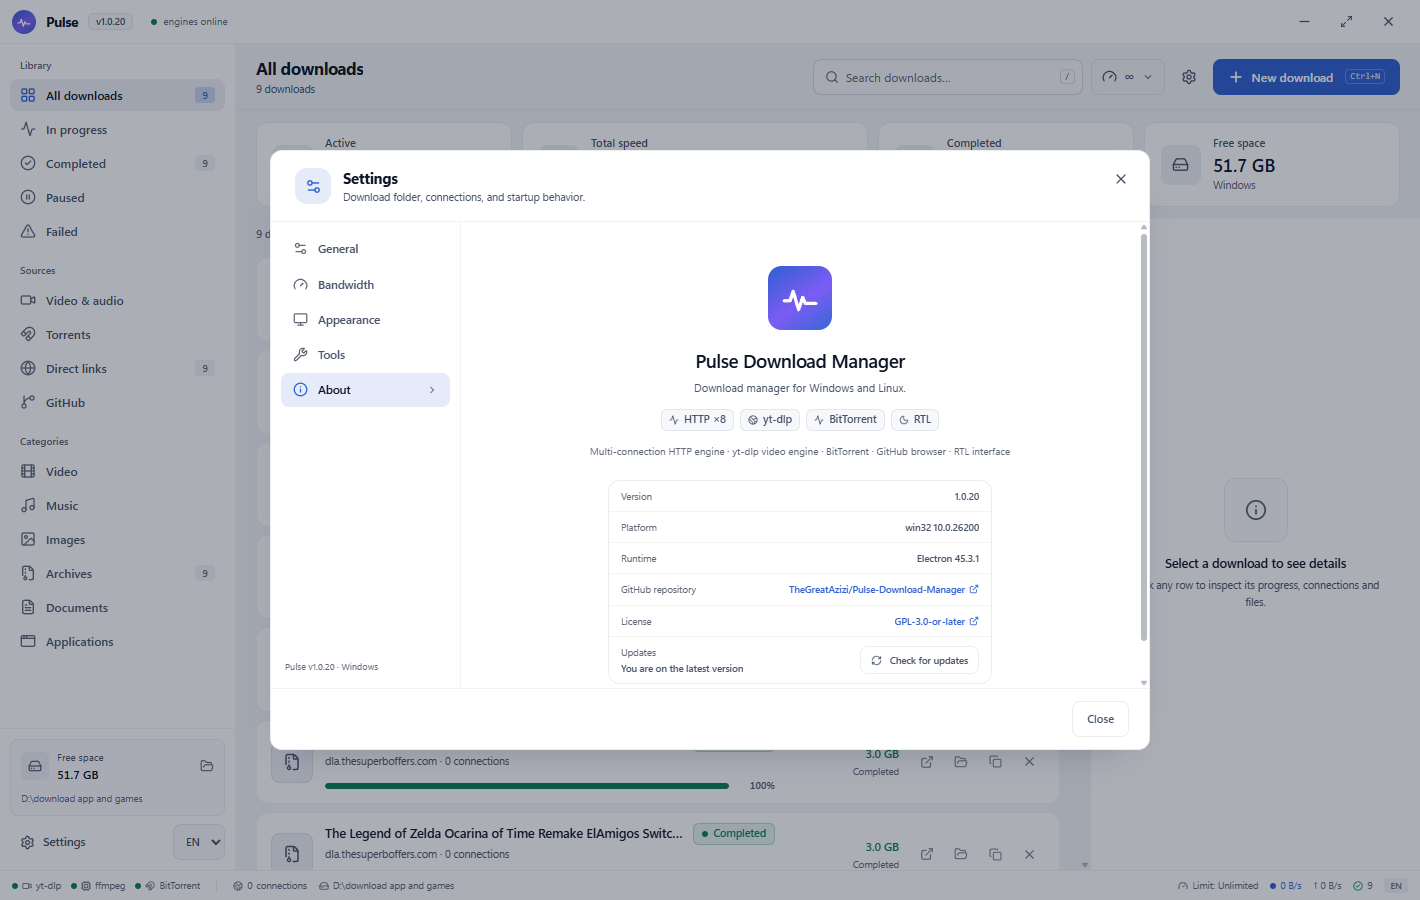
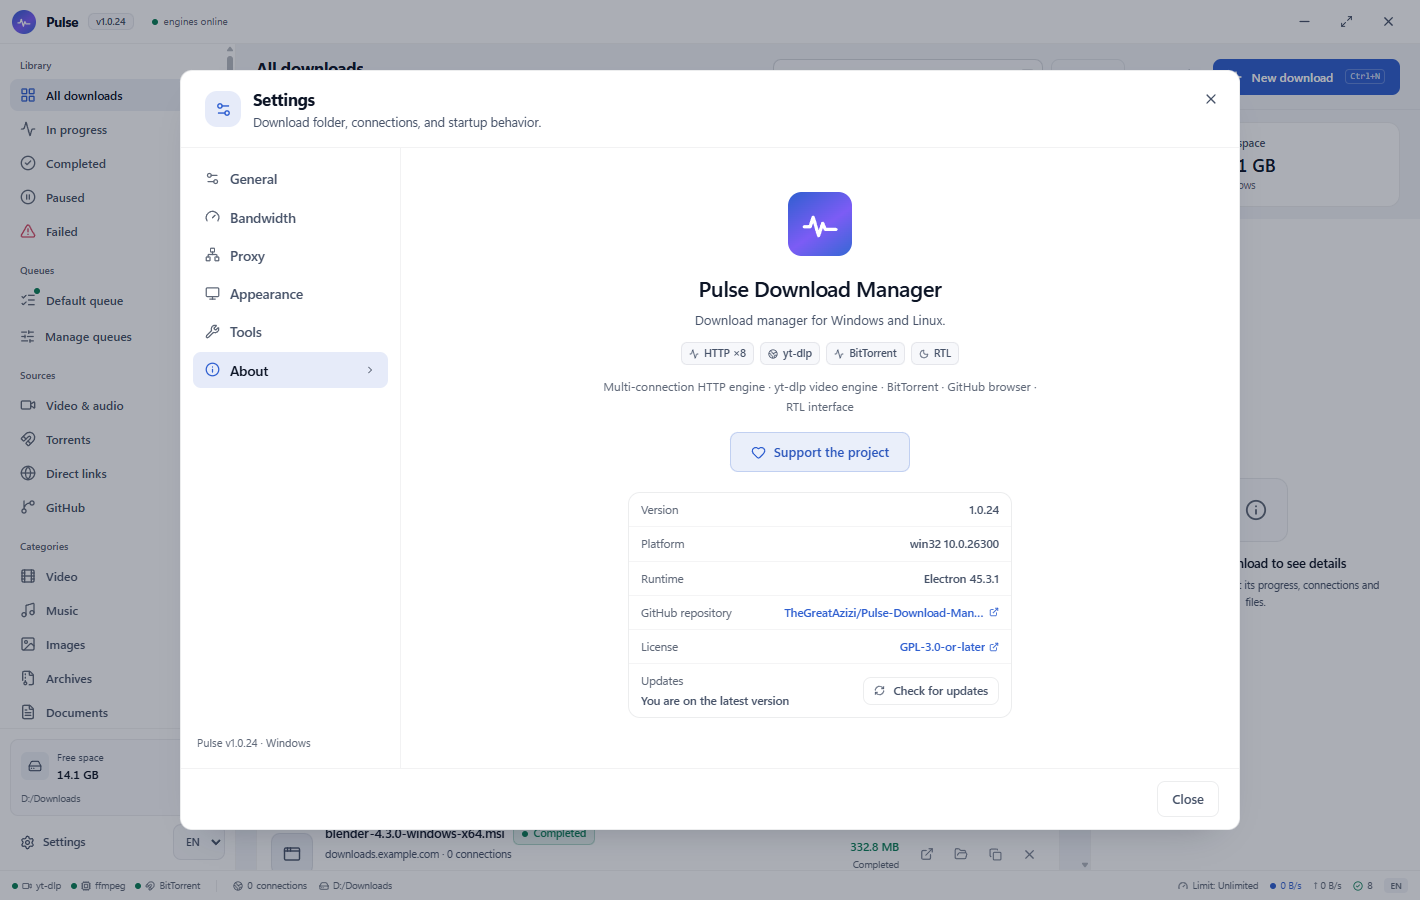
Release 1.0.24 with refreshed README and screenshots

diff --git a/README.md b/README.md
@@ -6,7 +6,7 @@
 
 <p align="center">
   <b>A fast, local-first download manager for Windows and Linux.</b><br>
-  Direct links, YouTube and 1000+ sites, BitTorrent, and a Chrome/Edge extension.
+  Direct links, YouTube and 1000+ sites, HLS/DASH streams, BitTorrent, multi-network downloads and a Chrome/Edge extension.
 </p>
 
 <p align="center">
@@ -23,73 +23,75 @@
   <a href="#screenshots">Screenshots</a> |
   <a href="#download">Download</a> |
   <a href="#browser-extension">Browser extension</a> |
-  <a href="#startup-and-bulk-actions">Startup and bulk actions</a> |
+  <a href="#multi-network-downloads">Multi-network</a> |
+  <a href="#hls-and-dash-streams">HLS/DASH</a> |
   <a href="#proxy-support">Proxy</a> |
-  <a href="#notifications">Notifications</a> |
+  <a href="#support-the-project">Support</a> |
   <a href="#development">Development</a> |
-  <a href="#troubleshooting">Troubleshooting</a> |
-  <a href="#contributing">Contributing</a>
+  <a href="#troubleshooting">Troubleshooting</a>
 </p>
 
 ## Overview
 
-Pulse is a desktop download manager built with Electron, React and TypeScript. It combines a multi-connection HTTP engine, yt-dlp for video and audio, and a BitTorrent client in one clean interface.
+Pulse is a desktop download manager built with Electron, React and TypeScript. It combines a multi-connection HTTP engine, yt-dlp for video and audio, HLS/DASH manifest downloads, and a BitTorrent client in one clean interface.
 
-The app is local-first: settings, task state and files stay on your machine. It ships in English, Persian (RTL), Japanese and Russian, with light and dark themes.
+The app is local-first. Settings, task history and downloaded files stay on your machine. Pulse runs on Windows and Linux, ships in English, Persian (RTL), Japanese and Russian, and includes light and dark themes.
 
 ## Features
 
 | Area | Highlights |
 | --- | --- |
 | HTTP downloads | Multi-connection engine, resume, named queues with schedules, global speed limit, expired link recovery, batch links |
-| Network | HTTP, HTTPS, SOCKS5 and SOCKS5H proxy support with optional authentication |
+| Multi-network | Optional round-robin distribution of direct HTTP connections across selected Wi-Fi, Ethernet and other adapters |
 | Video and audio | yt-dlp integration, 1000+ supported sites, quality selection, audio extraction, subtitles, thumbnails, playlists |
+| HLS and DASH | Manifest detection, stream analysis, quality selection, Referer and cookie forwarding, browser-captured streams |
 | BitTorrent | Magnet links and `.torrent` files, file selection, secure resume, peer and seeder stats, upload ratio |
-| Browser integration | Chrome/Edge extension, download takeover, history-safe startup, context menus, multi-link selection, cookies/referrer/user agent forwarding, popup, `Alt+Shift+P` |
+| Browser integration | Chrome/Edge extension, download takeover, history-safe startup, context menus, multi-link selection, stream capture, popup, `Alt+Shift+P` |
 | GitHub | Repository search, source ZIPs, release assets, optional personal access token |
-| Desktop experience | English, Persian (RTL), Japanese, Russian, Vazirmatn for Persian, light and dark themes, completion and failure notifications, start minimized to tray, pause all, multi-select bulk actions, auto-start, tray, in-app updates |
+| Network | HTTP, HTTPS, SOCKS5 and SOCKS5H proxy support with optional authentication |
+| Desktop experience | Four languages, Persian RTL, Vazirmatn, light and dark themes, notifications, tray, start minimized, pause all, bulk actions, in-app updates |
 | Privacy | Local WebSocket bridge on `127.0.0.1`, pinned extension origin, no account required |
 
 ## Screenshots
 
-| Main dashboard | Dark theme |
+| Main window | Dark theme |
 | --- | --- |
-| ![Main dashboard][main-light] | ![Dark theme][main-dark] |
+| ![Pulse main window][main-light] | ![Pulse dark theme][main-dark] |
 
-| Persian RTL | Add download |
+| Persian interface (RTL) | Add download |
 | --- | --- |
-| ![Persian RTL][main-fa] | ![Add download][add-download] |
+| ![Persian interface][main-fa] | ![Add download dialog][add-download] |
 
-| GitHub browser | Settings |
+| HLS/DASH download | GitHub browser |
 | --- | --- |
-| ![GitHub browser][github-browser] | ![Settings][settings-general] |
+| ![HLS and DASH download][add-download-vod] | ![GitHub browser][github-browser] |
 
-### Extension preview
+| Settings | Multi-network adapters |
+| --- | --- |
+| ![Settings][settings-general] | ![Multi-network adapters][settings-multinetwork] |
 
-| Popup | Options |
+### Browser extension
+
+| Extension popup | Extension options |
 | --- | --- |
 | ![Browser extension popup][ext-popup] | ![Browser extension options][ext-options] |
 
 <details>
 <summary>More screenshots</summary>
 
-| Browser extension settings | Software update |
+| Proxy | Appearance |
 | --- | --- |
-| ![Browser extension settings][settings-browser] | ![Software update][update-available] |
+| ![Proxy settings][settings-proxy] | ![Appearance settings][settings-appearance] |
 
-| Resume with a new link | Empty state |
+| Browser integration | About |
 | --- | --- |
-| ![Resume with a new link][resume-new-link] | ![Empty state][empty-paused] |
-
-| About | Search and filters |
-| --- | --- |
-| ![About][settings-about] | ![Search and filters][search-filter] |
+| ![Browser integration][settings-browser] | ![About Pulse][settings-about] |
 
 </details>
 
 ## Download
 
-Get the latest files from the [Releases page](https://github.com/TheGreatAzizi/Pulse-Download-Manager/releases).
+Get the latest files from the [Releases page](https://github.com/TheGreatAzizi/Pulse-Download-Manager/releases). Builds are produced by GitHub Actions for every release.
 
 | Platform | File | Notes |
 | --- | --- | --- |
@@ -117,20 +119,22 @@ The Windows installer lets you choose the install directory, creates desktop and
 3. Add your first download:
    - **Direct link:** choose **New download** or press `Ctrl+N`, paste the URL, then start.
    - **Video or audio:** paste a YouTube or supported site URL, then choose the quality or audio-only mode.
+   - **HLS or DASH:** open the **HLS/DASH** tab and paste a `.m3u8` playlist or `.mpd` manifest.
    - **BitTorrent:** open a magnet link or a `.torrent` file.
    - **Browser:** enable browser integration and install the extension, then let Pulse take over downloads.
 4. Use the sidebar to filter by status, source or category. Pause, resume, retry, open the folder, copy the link or remove tasks from the task row.
 
 ## Browser extension
 
-Pulse ships a Manifest V3 extension for Chrome and Edge. It works like a classic download manager extension: it hands downloads to Pulse, adds right-click actions, and shows live progress from the popup. The popup and options page use a light palette that matches the desktop app.
+Pulse ships a Manifest V3 extension for Chrome and Edge. It works like a classic download manager extension: it hands downloads to Pulse, adds right-click actions, captures media streams, and shows live progress from the popup. The popup and options page use the same light palette as the desktop app.
 
 ### What it does
 
 - **Download takeover:** new Chrome/Edge downloads are cancelled in the browser and queued in Pulse with cookies, referrer and user agent. Takeover ignores completed or stale history entries when the browser restarts.
 - **Context menus:** send a link, image, video or audio file, the current page, a text selection, or every link on a page.
 - **Multi-link selection:** highlight one or more links or any text that contains links, right-click, and choose **Send selected links to Pulse**. The selection is collected from the page, so link text works without copying the destination URL.
-- **Popup:** connection status, current page, an **Add a link** field, active downloads, and a takeover switch.
+- **Stream capture:** Pulse watches for `.m3u8` and `.mpd` requests and lists them in the popup. Choose a stream and send it to Pulse as an HLS/DASH download.
+- **Popup:** connection status, current page, an **Add a link** field, captured streams, active downloads, and a takeover switch.
 - **Shortcut:** `Alt+Shift+P` sends the current page.
 - **Domain exclusions:** disable takeover for specific sites in the extension options.
 - **Languages:** English, Persian, Japanese and Russian.
@@ -155,8 +159,30 @@ The extension ID is fixed by the key in `extension/manifest.json`, so unpacked i
 - Pulse runs a local WebSocket bridge on `127.0.0.1`, using the first free port from `19527` to `19530`.
 - The bridge accepts only the Pulse extension origin, which is derived from the public key in the extension manifest.
 - Cookies, referrer and user agent are forwarded only for the download you send to Pulse.
+- Captured streams are stored per tab and cleared when the tab navigates or closes.
 - Takeover can be paused from the popup or disabled per domain in the extension options.
 - If Pulse is not running, the browser keeps the download.
+
+## Multi-network downloads
+
+On machines with more than one active network adapter, Pulse can spread direct HTTP connections across the adapters you choose.
+
+1. Open **Settings → General**.
+2. Turn on **Use multiple network adapters**.
+3. Select two or more adapters and save.
+
+The option requires at least two active adapters. It applies to direct HTTP downloads, not to BitTorrent or proxy traffic, and turns off automatically while a proxy is configured.
+
+## HLS and DASH streams
+
+Pulse can download HTTP Live Streaming (HLS) and MPEG-DASH video directly from a manifest.
+
+- Paste a `.m3u8` playlist or `.mpd` manifest in **New download → HLS/DASH**.
+- Pulse analyzes available streams with yt-dlp, then downloads the selected quality through yt-dlp and ffmpeg.
+- Add a **Referer**, **User-Agent** or **Cookie** when a site requires them.
+- Captured streams from the browser extension appear in the popup and can be sent to Pulse with one click.
+
+HLS/DASH downloads require `yt-dlp` and `ffmpeg`. Pulse can install yt-dlp from **Settings → Tools** and detects ffmpeg from system paths or user data.
 
 ## Startup and bulk actions
 
@@ -191,7 +217,7 @@ Percent-encode special characters in the username or password, for example `@` b
 The proxy applies to:
 
 - Direct HTTP and HTTPS downloads, including segmented transfers and resume.
-- YouTube and other yt-dlp downloads, plus the yt-dlp installer.
+- YouTube, HLS/DASH and other yt-dlp downloads, plus the yt-dlp installer.
 - GitHub API requests, repository downloads and release assets.
 - Update checks and update downloads.
 
@@ -201,6 +227,16 @@ BitTorrent traffic, including peer connections and trackers, stays direct. Pulse
 
 Pulse can show a system notification when a download completes or fails. Turn on **Settings → General → Show a notification when a download finishes or fails**. Failed downloads include the task name and the error detail. Notifications are best effort and depend on support in the operating system.
 
+## Support the project
+
+Pulse is free and open source, and development continues in the maintainer's spare time. If Pulse saves you time, you can support the project through Daramet:
+
+<p align="center">
+  <a href="https://daramet.com/AziziWarmCorner"><img src="https://img.shields.io/badge/Support%20Pulse-Daramet-e11d48?style=for-the-badge" alt="Support Pulse on Daramet"></a>
+</p>
+
+Donations are optional. Starring the repository, reporting bugs and sharing Pulse with others also help the project grow.
+
 ## Development
 
 ### Requirements
@@ -208,7 +244,7 @@ Pulse can show a system notification when a download completes or fails. Turn on
 - Node.js 20 or newer
 - npm
 - Windows or Linux
-- Optional: `yt-dlp` and `ffmpeg` for video and audio downloads. Pulse can install yt-dlp from **Settings → Tools** and detects ffmpeg from system paths or user data.
+- Optional: `yt-dlp` and `ffmpeg` for video, audio and HLS/DASH downloads. Pulse can install yt-dlp from **Settings → Tools** and detects ffmpeg from system paths or user data.
 
 ### Commands
 
@@ -226,7 +262,7 @@ Build output is written to `dist/`.
 
 ### Project structure
 
-```
+```text
 src/
   main/       Electron main process: HTTP, YouTube, torrent engines, queue, persistence
   preload/    Secure window.pulse bridge
@@ -267,6 +303,8 @@ Keep `yt-dlp` newer than 2025.11 for JavaScript runtime support.
 | Browser extension shows Offline | Start Pulse, enable browser integration, reload the extension, and check the port in **Settings → Tools**. |
 | Chrome re-downloads old history | Reload the extension from `chrome://extensions` or `edge://extensions`. Takeover now ignores completed downloads and stale history entries. |
 | Downloads stay in the browser | Turn on takeover in the popup, remove the site from domain exclusions, and make sure Pulse is running. |
+| HLS/DASH analysis fails | Update yt-dlp, install ffmpeg, and add the required Referer, User-Agent or Cookie. |
+| Multi-network is unavailable | Connect at least two active adapters, or disable the proxy, which takes priority over multi-network transfers. |
 | AppImage does not start | Install `fuse2`, or run `./Pulse-*.AppImage --appimage-extract-and-run`. |
 | SmartScreen warning on Windows | Builds are unsigned; choose **More info → Run anyway**. |
 | Cookie database is locked | Close the browser before reading cookies, or use an exported `cookies.txt`. |
@@ -302,20 +340,20 @@ See [LICENSE](LICENSE) for the full text. Pulse is free software; you can redist
 The bundled [Vazirmatn](https://github.com/rastikerdar/vazirmatn) Persian font is copyright 2015 The Vazirmatn Project Authors and is licensed under the SIL Open Font License 1.1. Its license text is included at [src/renderer/src/assets/fonts/OFL.txt](src/renderer/src/assets/fonts/OFL.txt) and in packaged builds at `resources/licenses/Vazirmatn-OFL.txt`.
 
 <p align="center">
-  <sub>If Pulse saves you time, consider starring the repository. It helps the project grow.</sub>
+  <sub>If Pulse saves you time, consider starring the repository or supporting development.</sub>
 </p>
 
-[main-light]: https://raw.githubusercontent.com/TheGreatAzizi/Pulse-Download-Manager/main/docs/screenshots/final/main-light.png
-[main-dark]: https://raw.githubusercontent.com/TheGreatAzizi/Pulse-Download-Manager/main/docs/screenshots/final/main-dark.png
-[main-fa]: https://raw.githubusercontent.com/TheGreatAzizi/Pulse-Download-Manager/main/docs/screenshots/final/main-fa.png
-[add-download]: https://raw.githubusercontent.com/TheGreatAzizi/Pulse-Download-Manager/main/docs/screenshots/final/add-download-en.png
-[github-browser]: https://raw.githubusercontent.com/TheGreatAzizi/Pulse-Download-Manager/main/docs/screenshots/final/github-browser.png
-[settings-general]: https://raw.githubusercontent.com/TheGreatAzizi/Pulse-Download-Manager/main/docs/screenshots/final/settings-general-light.png
-[ext-popup]: https://raw.githubusercontent.com/TheGreatAzizi/Pulse-Download-Manager/main/docs/screenshots/final/extension-popup.png
-[ext-options]: https://raw.githubusercontent.com/TheGreatAzizi/Pulse-Download-Manager/main/docs/screenshots/final/extension-options.png
-[settings-browser]: https://raw.githubusercontent.com/TheGreatAzizi/Pulse-Download-Manager/main/docs/screenshots/final/settings-browser-light.png
-[update-available]: https://raw.githubusercontent.com/TheGreatAzizi/Pulse-Download-Manager/main/docs/screenshots/final/update-available.png
-[resume-new-link]: https://raw.githubusercontent.com/TheGreatAzizi/Pulse-Download-Manager/main/docs/screenshots/final/resume-new-link.png
-[empty-paused]: https://raw.githubusercontent.com/TheGreatAzizi/Pulse-Download-Manager/main/docs/screenshots/final/empty-paused.png
-[settings-about]: https://raw.githubusercontent.com/TheGreatAzizi/Pulse-Download-Manager/main/docs/screenshots/final/settings-about-light.png
-[search-filter]: https://raw.githubusercontent.com/TheGreatAzizi/Pulse-Download-Manager/main/docs/screenshots/final/search-filter.png
+[main-light]: docs/screenshots/final/main-light.png
+[main-dark]: docs/screenshots/final/main-dark.png
+[main-fa]: docs/screenshots/final/main-fa.png
+[add-download]: docs/screenshots/final/add-download-en.png
+[add-download-vod]: docs/screenshots/final/add-download-vod.png
+[github-browser]: docs/screenshots/final/github-browser.png
+[settings-general]: docs/screenshots/final/settings-general-light.png
+[settings-multinetwork]: docs/screenshots/final/settings-multinetwork.png
+[settings-proxy]: docs/screenshots/final/settings-proxy-light.png
+[settings-appearance]: docs/screenshots/final/settings-appearance-light.png
+[settings-browser]: docs/screenshots/final/settings-browser-light.png
+[settings-about]: docs/screenshots/final/settings-about-light.png
+[ext-popup]: docs/screenshots/final/extension-popup.png
+[ext-options]: docs/screenshots/final/extension-options.png
